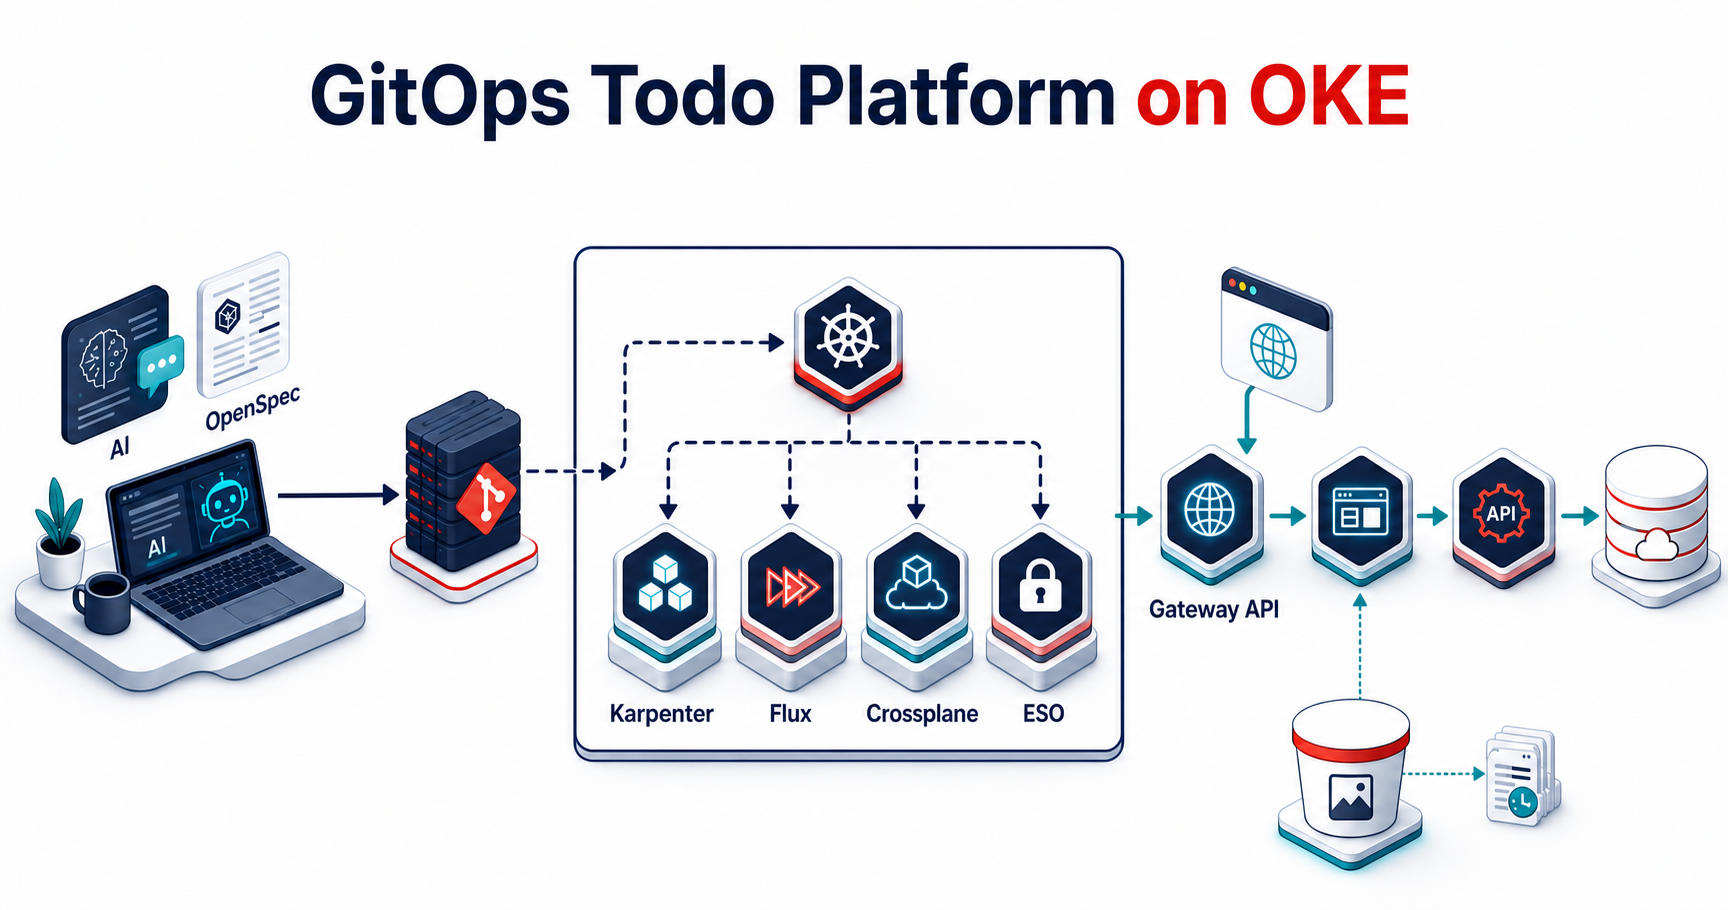
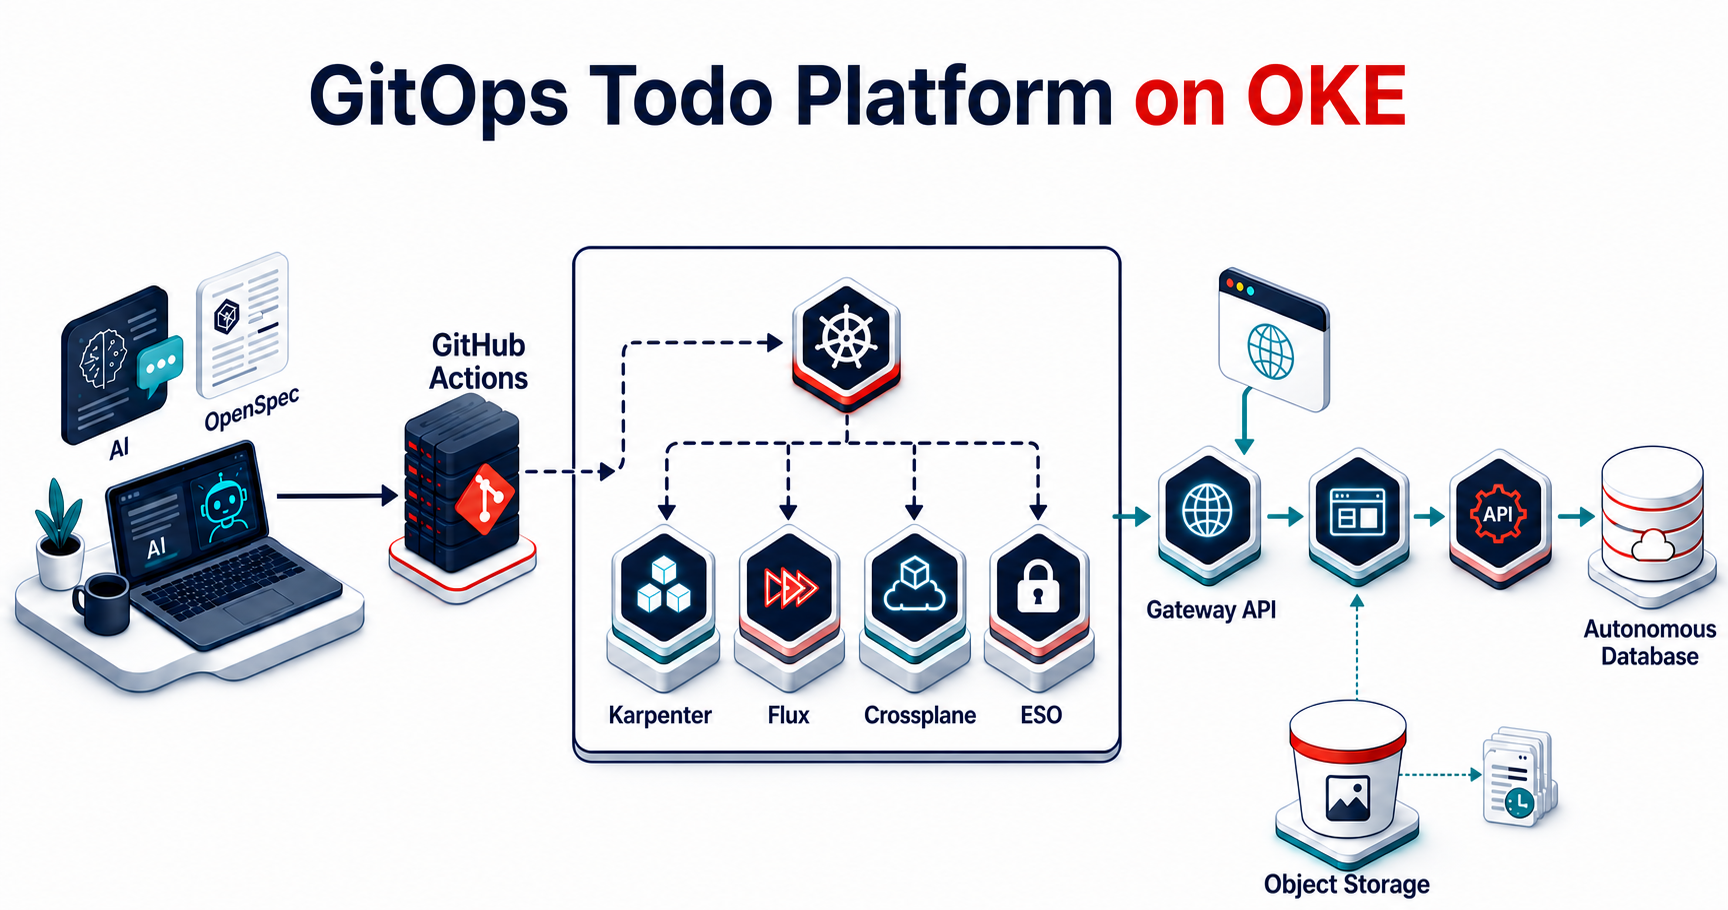
Refine GitOps architecture illustration

diff --git a/README.md b/README.md
@@ -1,6 +1,4 @@
-# OKE OpenSpec Todo Platform
-
-## GitOps architecture
+# GitOps Todo Platform on OKE
 
 ![GitOps Todo Platform on OKE architecture illustration](docs/assets/gitops-todo-platform-oke.png)
 
